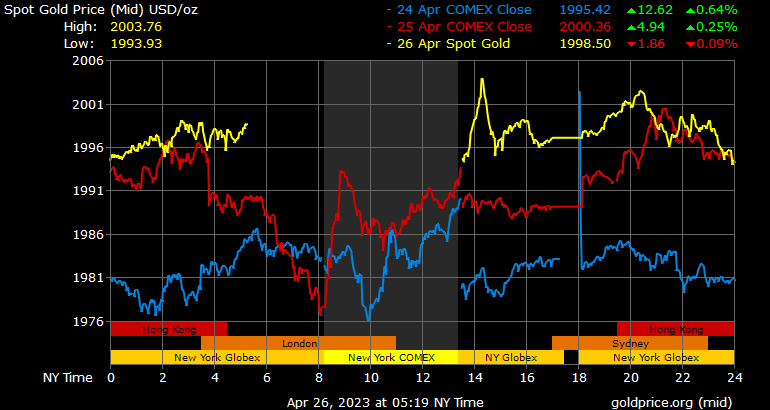
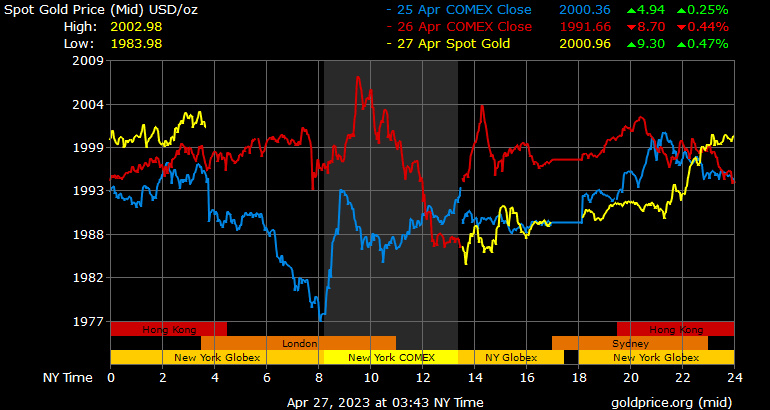
Graph updateing . Starting repo pattern

diff --git a/udemy/GoDesktopAppsWithFyne/goldwatcher/ui.go b/udemy/GoDesktopAppsWithFyne/goldwatcher/ui.go
@@ -1,6 +1,8 @@
 package main
 
 import (
+	"time"
+
 	"fyne.io/fyne/v2"
 	"fyne.io/fyne/v2/canvas"
 	"fyne.io/fyne/v2/container"
@@ -40,9 +42,16 @@ func (app *Config) makeUI() {
 	finalContent := container.NewVBox(priceContent, toolBar, tabs)
 
 	app.MainWindow.SetContent(finalContent)
+
+	go func() {
+		for range time.Tick(time.Second * 5) {
+			app.refreshPriceContent()
+		}
+	}()
 }
 
 func (app *Config) refreshPriceContent() {
+	app.InfoLog.Println("Refreshing price content")
 	open, current, change := app.getPriceText()
 	app.PriceContainer.Objects = []fyne.CanvasObject{open, current, change}
 	app.PriceContainer.Refresh()

diff --git a/udemy/GoDesktopAppsWithFyne/goldwatcher/repository/repository.go b/udemy/GoDesktopAppsWithFyne/goldwatcher/repository/repository.go
@@ -1,0 +1,15 @@
+package repository
+
+import (
+	"database/sql"
+	"errors"
+)
+
+var (
+	errUpdateFailed = errors.New("update failed")
+	errDeleteFailed = errors.New("delete failed")
+)
+
+type DatabaseRepo interface {
+	Connection() *sql.DB
+}
